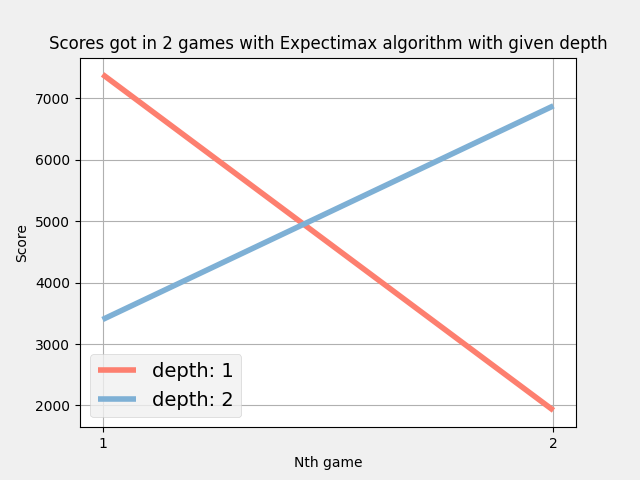
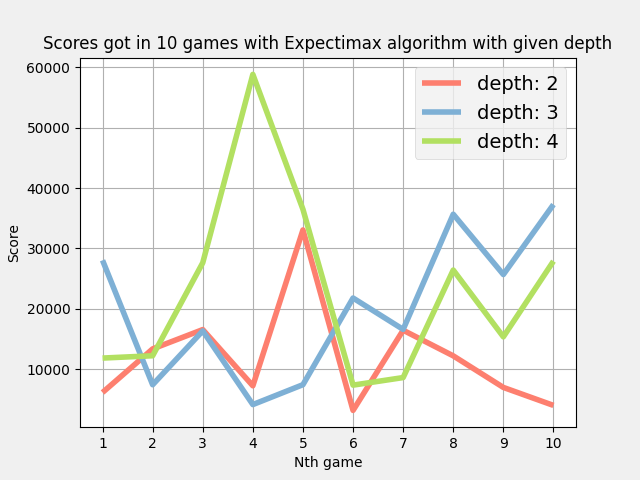
(B) Bugfix - percentages in plot, small changes, measurments

diff --git a/board.py b/board.py
@@ -119,7 +119,7 @@ class Board():
         _, if_best_in_left_top_corner = self._get_max_value()
         _, if_second_largest_in_first_row, if_second_largest_in_fist_column = self._get_second_largest_value()
 
-        corner_boost = 370 if if_best_in_left_top_corner else 0
+        corner_boost = 350 if if_best_in_left_top_corner else 0
 
         second_largest_value_penalty = 0 if if_second_largest_in_first_row or\
             if_second_largest_in_fist_column else 180
@@ -172,7 +172,7 @@ class Board():
 
         return evaluation_value
 
-    def _evaluate_spreading_rows(self):
+    def _evaluate_spreading_rows(self) -> int:
         evaluation_value = 0
 
         for i in range(self.num_of_fields_in_row):
@@ -185,7 +185,7 @@ class Board():
 
         return evaluation_value
 
-    def _evaluate_spreading_columns(self):
+    def _evaluate_spreading_columns(self) -> int:
         evaluation_value = 0
 
         for j in range(self.num_of_fields_in_row):
@@ -196,7 +196,7 @@ class Board():
 
         return evaluation_value
 
-    def _evaluate_spreading_diagonal(self):
+    def _evaluate_spreading_diagonal(self) -> int:
         evaluation_value = 0
 
         # signle diagonal NW - SE
@@ -208,7 +208,7 @@ class Board():
 
         return evaluation_value
 
-    def _count_blocked_fields(self):
+    def _count_blocked_fields(self) -> int:
         blocked_fields = 0
 
         blocked_fields += self._count_blocked_fields_along_borders_without_corners()
@@ -217,7 +217,7 @@ class Board():
 
         return blocked_fields
 
-    def _count_blocked_fields_in_corners(self):
+    def _count_blocked_fields_in_corners(self) -> int:
         num_of_blocked_fields = 0
         max_index = self.num_of_fields_in_row - 1
 
@@ -250,7 +250,7 @@ class Board():
 
         return num_of_blocked_fields
 
-    def _count_blocked_fields_along_borders_without_corners(self):
+    def _count_blocked_fields_along_borders_without_corners(self) -> int:
         num_of_blocked_fields = 0
         max_index = self.num_of_fields_in_row - 1
 
@@ -288,7 +288,7 @@ class Board():
 
         return num_of_blocked_fields
 
-    def _count_blocked_fields_inside(self):
+    def _count_blocked_fields_inside(self) -> int:
         num_of_blocked_fields = 0
         max_index = self.num_of_fields_in_row - 1
 

diff --git a/make_plot.py b/make_plot.py
@@ -79,7 +79,8 @@ def make_plot_with_wins(plot_data: dict[int, int], number_of_games: int) -> None
     bar_counter = 0
     for rect in plt_bar:
         height = rect.get_height()
-        plt.annotate(f"{height * number_of_games / 100}%", (rect.get_x() + rect.get_width() / 2, height + 0.05),
+        plt.annotate(f"{round(height * 100 / number_of_games, 2)}%",
+                     (rect.get_x() + rect.get_width() / 2, height + 0.05),
                      ha="center", va="bottom", fontsize=12, label=f"Depth: {depths[bar_counter]}")
         bar_counter += 1
 
@@ -124,14 +125,14 @@ def make_data_for_plots(depths: list, number_of_games: int) -> tuple[dict[int, d
 
 
 def main():
-    NUM_OF_GAMES = 2
-    plot_data_scores, plot_data_wins = make_data_for_plots([2, 3, 4], NUM_OF_GAMES)
+    num_of_games = 10
+    plot_data_scores, plot_data_wins = make_data_for_plots([2, 3, 4], num_of_games)
 
     make_plot_with_scores(plot_data_scores)
     save_plot("Plots/plot_scores.png")
     clear_after_making_the_plot()
 
-    make_plot_with_wins(plot_data_wins, NUM_OF_GAMES)
+    make_plot_with_wins(plot_data_wins, num_of_games)
     save_plot("plots/plot_wins.png", without_legend=True)
     clear_after_making_the_plot()
 

diff --git a/main.py b/main.py
@@ -84,7 +84,7 @@ while run:
 
     # AI move
     if game.if_ai_play and not game.if_moving_is_blocked and not game.if_blocked:
-        _, best_direction = expectimax(game.board, 3, True)
+        _, best_direction = expectimax(game.board, 4, True)
         if best_direction:
             game.move(best_direction, if_save_last_move=False)
             game.board.add_new_random_field()
